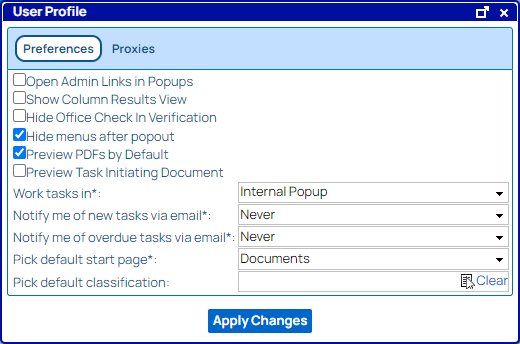
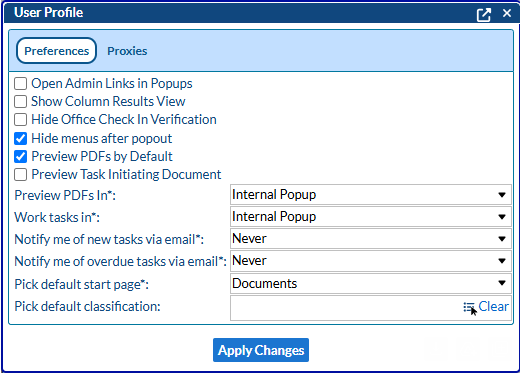
MNT-1565 5.25 documentation

Changed region(s): [[0.0, 0.0, 1.0, 1.0]]

diff --git a/docs/user-preferences/index.md b/docs/user-preferences/index.md
@@ -35,6 +35,7 @@ Access your user profile to configure your user preferences.
     - **Hide menus after popout checkbox** - When selected, the left navigation pane is hidden when the New Browser (![](/assets/images/new-browser-button.PNG)) shortcut is used. If a task or other popout window appears, and the user clicks the New Browser (![](/assets/images/new-browser-button.PNG)) button in the corner, then the window opens on a new screen without the left navigation pane. If the checkbox is cleared, the navigation pane appears when the window expands.
     - **Preview PDFs by Default checkbox** - when selected, clicking on a PDF opens a preview of it in the application.  If this is turned off, PDFs will be downloaded instead just like other documents.
     - **Preview Task Initiating Document** checkbox - when selected, folders that launch initiating documents when viewing a task will display the initiating document in the browser instead of downloading it, if it is a PDF.  Otherwise, the initiating document will be downloaded.
+    - **Preview PDFs In*** drop-down list - In this required field, choose whether to preview PDFs in an **Internal Popup** that can be moved around within the app to allow for viewing other data at the same time, or **Full Window** which focuses the PDF front and center for optimal viewing.
     - **Work tasks in* drop-down list** - In this required field, choose between Internal Popup, Full Window, or New Tab/Window, so that when a task is opened, it opens in an internal popup that overlays the main application screen, opens to replace the main application screen, or opens in a new browser window.
     - **Notify me of new tasks via email drop-down list** - In this required field, choose to be alerted when you receive a new task Daily, Immediately, or Never.
     - **Notify me of overdue tasks via email drop-down list** - In this required field, choose to be alerted when a task is overdue the 1st Day, the 1st Day and all following days, or Never.

diff --git a/release-notes/learn-more.md b/release-notes/learn-more.md
@@ -5,22 +5,9 @@ title: Learn More
 # Learn More
 Below are the  main changes that have been made to the application since the last major customer release.  For an entire history of all changes to the application, see the [Release Notes](/release-notes/).
 
-1.  Updated look and feel with modern icons. (See below.)
-2. When searching on a hierarchy folder field anchored to a specific group, suggestions now display options within the correct group.
-3. Previews for extended-length task notes can also show rich text formatting.
-
-### Icon Updates
-
-ECF now has a slicker look and feel:
-![](/assets/images/icon-updates-new-splash.png)
-… Compared to the old:
-![](/assets/images/icon-updates-old-splash.png)
-
-
-Icons are sharper and modernized:
-
-![](/assets/images/icon-updates-new-docs.png) …Compared to the old: ![](/assets/images/icon-updates-old-docs.png)
-
-Action menus are more crisp:
-
-![](/assets/images/icon-updates-new-actions.png)... Compared to the old:![](/assets/images/icon-updates-old-actions.png)
+1. New administrative option to exclude "Put Back" option for select workflow tasks.
+2. New [user preference](/docs/user-preferences/index){:target="_blank"} allows users to decide whether to preview PDFs in a full screen overlay to focus just on the PDF, or in a pop-up which allows for viewing application data alongside the PDF.
+3. Updates to the "Add to Backfile" toggle:
+	- The toggle has been renamed to "[Initiate Workflow]("%2Fdocs%2Fworking-with-documents%2Fadd-documents%2Fupload-documents#Initiate_Workflow"){:target="blank"}".
+	- The toggle will only display when there is an Initiating Docs setting for the selected Classification/Document Type AND the setting allows the user to choose not to initiate the workflow.
+	- The toggle will only display when there is an Initiating Docs setting for the selected Classification/Document Type AND the setting allows the user to choose not to initiate the workflow.

diff --git a/release-notes/new-features.md b/release-notes/new-features.md
@@ -6,12 +6,10 @@ title: What's New?
 This page is used within Q-Action to display an internal pop-up. It is important to mark all links {:target="\_blank"} and to consider how the contents of this page will fit into the pop-up size.
 {% endcomment %}
 # What's New?
-- Updated look and feel with [modern icons](learn-more){:target="_blank"}.
-- When [searching on a hierarchy folder field](/docs/performing-searches/types-of-search-filters.html#hierarchy-filters){:target="_blank"}, anchored to a specific group, suggestions now display options within the correct group.
-- Previews for extended-length task notes can also show rich text formatting.
-
+- New "Preview PDFs In" [user preference](/docs/user-preferences/index){:target="_blank"} determines how PDF previews appear.
+- The "Add to Backfile" toggle has been renamed to "[Initiate Workflow]("%2Fdocs%2Fworking-with-documents%2Fadd-documents%2Fupload-documents#Initiate_Workflow"){:target="blank"}" when adding documents, and will no longer display when it is not relevant to the user.
+- Administrators can customize workflow tasks to exclude the "Put Back" option for tasks that should never be returned to the group inbox. 
 # Did You Know?
-- A [user preference](/docs/user-preferences/){:target="_blank"} will preview initiating document PDFs instead of downloading them.
-- Faxes can be imported, [assembled, and indexed](/docs/working-with-documents/add-documents/adding-documents-in-batches){:target="_blank"} in ECF/Q-Action.
-- A video about the Batch and Split option for PDFs is available in Help > Downloads. 
+- Check out the Help > Downloads tab for helpful instructions for common issues and functionality.
+- A new way to find helpful 'How To-Self Help' information is in the works.
 - You can request Support, training, or share suggestions using the Contact Support tab in the top right corner.

diff --git a/docs/working-with-documents/add-documents/upload-documents.md b/docs/working-with-documents/add-documents/upload-documents.md
@@ -37,7 +37,9 @@ See [Handling Add Document Errors](/docs/working-with-documents/add-documents/ha
 5.  Select one of the uploading documents and enter the index data for it.  You must first select a Classification before other index fields will appear.  
     ![](/assets/images/Upload-Documents-Classification-Selected-Example.PNG)  
     
-6.  To add the document without initiating a workflow, even if that document type or classification is linked to a workflow, turn the Add to Backfile toggle on.  
+6. <a name="Initiate_Workflow"></a>The <b>Initiate Workflow</b> toggle will appear if there is a workflow configured for the selected Classification/Document Type and the user has the ability to choose whether or not to initiate the workflow. Turn the toggle on to initiate the configured workflow after adding the document; turn the toggle off to add the document to the system without initiating a workflow.
+   - Administrators can configure the default value for this toggle, so it may appear on or off by default depending on the selected Classification/Document Type.
+   - Administrators can also configure workflows to launch without offering the user the choice, in which case the toggle will not appear but a workflow will still be launched.
 7.  If the same index fields will apply to multiple documents, you can toggle on Copy Index Values Forward.  When that toggle is on, if there are multiple documents in the Uploading pane, the index fields will remain filled out for the next document in the queue.  The user can still tweak the index values on individual documents as needed before adding each one to the system.
 8.  Click Add Document.  
     The selected document is added to the system with the entered index information, and the document disappears from the document queue.  

diff --git a/release-notes/5.25.md b/release-notes/5.25.md
@@ -1,0 +1,21 @@
+---
+layout: default
+title: 5.25 Latest
+parent: Release Notes
+has_children: false
+---
+# 5.25
+{: .d-inline-block } 
+Latest
+{: .label .label-green }
+----
+### New Features
+- New administrative option to exclude "Put Back" option for select workflow tasks.--MNT-1527
+- Updates to the "Add to Backfile" toggle: --MNT-1531
+	- The toggle has been renamed to "Initiate Workflow".
+	- The toggle will only display when there is an Initiating Docs setting for the selected Classification/Document Type AND the setting allows the user to choose not to initiate the workflow.
+	- Administrators can now configure, per Initiating Docs setting, whether to default the toggle to on or off for users on the Upload Documents screen.
+### Bug Fixes
+- Multi-column folder fields now display the full width of the folder.--MNT-1493
+### Under-the-Hood Enhancements
+- Improve Export to Excel performance.--MNT-1023

diff --git a/release-notes/5.24.4.md b/release-notes/5.24.4.md
@@ -1,0 +1,10 @@
+---
+layout: default
+title: 5.24.4
+parent: Release Notes
+has_children: false
+---
+# 5.24.4
+----
+### New Features
+- New user preference allows users to decide whether to preview PDFs in a full screen overlay to focus just on the PDF, or in a pop-up which allows for viewing application data alongside the PDF.--MNT-1541

diff --git a/release-notes/5.23.2.md b/release-notes/5.23.2.md
@@ -8,4 +8,4 @@ has_children: false
 ----
 ### Bug Fixes
 - Task notes can now handle rich text formatting for extended-length notes correctly.--MNT-793
-- Fixed loading error with reactivated folders.--MNT-992
+- Fixed loading error with reactivated folders.--MNT-992 

diff --git a/release-notes/5.24.3.md b/release-notes/5.24.3.md
@@ -1,0 +1,10 @@
+---
+layout: default
+title: 5.24.3
+parent: Release Notes
+has_children: false
+---
+# 5.24.3
+----
+### Bug Fixes
+- Fix issue with pop-up PDF previewer page rotation.--MNT-1502
